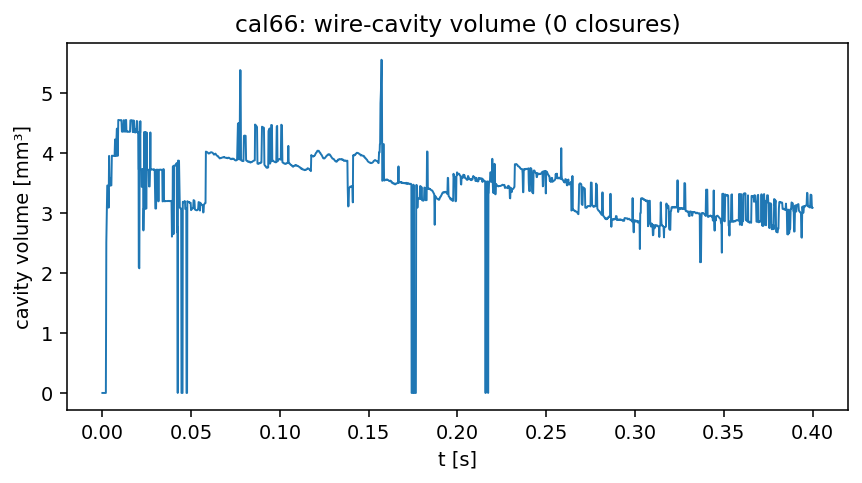
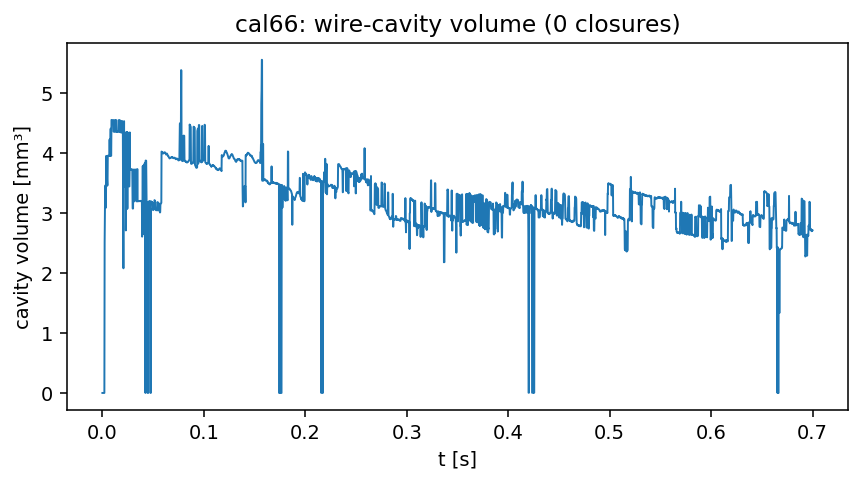
Score the full-width wake and the longer 30/100 window.
On the full mesh the wake centroid sits at y = 0, and the crest is still short at 0.30 s, so that run continues. The 30/100 window on 700 W holds a 2.06 mm trail over a 0.99 mm lead.

diff --git a/results/calibration/taosun03/README.md b/results/calibration/taosun03/README.md
@@ -69,7 +69,7 @@ The radiograph is a rounded dome about 1.5–2 mm tall, higher on the trailing s
 | cal72 | 0.50 s | 8 | 1.91 / 0.54 mm | 0.84–2.06 mm, 10/12 pinned | open, 3.52 mm³, centre y = 1.06 mm | 50+50+650 W at 2 mm/s. Lowest lead with a tall trail. Continued to 0.75 s. |
 | cal36 | 1.00 s | 8 | 2.22 / 1.15 mm | 1.15–2.37 mm, 12/13 pinned | open, 2.96 mm³, centre y = 1.15 mm | Trail held. Lead rose from 0.84 mm at 0.80 s. Not continued. |
 | cal43 | 0.80 s | 8 | 1.91 / 0.84 mm | 0.99–2.06 mm, 10/10 pinned | open, 2.62 mm³, centre y = 1.11 mm | 50+50+650 W, given time. Lead fell to 0.84 mm. Continued to 1.05 s. |
-| cal66 | 0.40 s | 8 | 1.61 / 0.99 mm | 0.99–1.76 mm, 12/12 pinned | open, 3.08 mm³, centre y = 1.08 mm | 700 W with the 30°/100° window. Fully pinned. Continued to 0.70 s. |
+| cal66 | 0.70 s | 8 | 2.06 / 0.99 mm | 0.99–2.06 mm, 10/10 pinned | open, 2.71 mm³, centre y = 1.16 mm | 700 W with 30°/100°. Lead stayed at 0.99 mm. Continued to 0.90 s. |
 | cal74 | 0.36 s | 8 | 1.61 / 0.99 mm | 0.99–1.76 mm, 10/10 pinned | open, 3.15 mm³, centre y = 1.07 mm | 0.18 mm rear spot on 700 W. Crest shorter than cal36. Not continued. |
 | cal78 | 0.36 s | 8 | 1.61 / 0.84 mm | 0.99–1.76 mm, 6/12 pinned | open, 3.20 mm³, centre y = 1.07 mm | 15°/50° window on 700 W. Lead already 0.84 mm. Continued to 0.60 s. |
 | cal62 | 0.60 s | 8 | 2.06 / 1.30 mm | 1.30–2.22 mm, 12/12 pinned | open, 3.17 mm³, centre y = 1.08 mm | 700 W at scan 2 mm/s. Fully pinned. Lead still high. Continued to 0.90 s. |
@@ -100,6 +100,7 @@ The radiograph is a rounded dome about 1.5–2 mm tall, higher on the trailing s
 | cal53 | 0.30 s | 7 | 1.61 / 1.30 mm | 0.84–1.61 mm, 8/8 pinned | open, 2.63 mm³, centre y = 1.03 mm | Feed 32 mm/s. Lead rises with the trail. Not continued. |
 | cal54 | 0.36 s | 7 | 1.61 / 1.30 mm | 1.30–1.76 mm, 11/11 pinned | open, 3.27 mm³, centre y = 1.01 mm | Scan 2.5 mm/s, feed 22 mm/s. Lead rises with the trail. Not continued. |
 | cal61 | 0.40 s | 7 | 1.61 / 1.15 mm | 1.15–1.76 mm, 4/10 pinned | open, 2.98 mm³, centre y = 1.09 mm | 700 W with the 60°/140° window. Line mostly receding. Not continued. |
+| cal82 | 0.45 s | 6 | 1.76 / 0.54 mm | 0.69–1.91 mm, 3/8 pinned | open, 3.03 mm³, centre y = 1.09 mm | 45°/120° on 50+50+650 W. Lead low, line not held. Not continued. |
 | cal68 | 0.40 s | 6 | 1.76 / 1.15 mm | 0.54–1.91 mm, 12/12 pinned | open, 2.55 mm³, centre y = 1.09 mm | Feed 32 mm/s on 700 W. Line slipped to 0.54 mm. Foot pore locked. Not continued. |
 | cal73 | 0.40 s | 6 | 1.45 / 0.69 mm | 0.69–1.76 mm, 8/10 pinned | open, 3.02 mm³, centre y = 1.06 mm | Front spots 25 W. Lead fell and the line slipped. Not continued. |
 | cal46 | 0.30 s | 6 | 1.45 / 0.99 mm | 0.69–1.61 mm, 9/9 pinned | open, 3.34 mm³, centre y = 1.01 mm | Rear aim at the foot. Line slips down. Not continued. |
@@ -107,6 +108,7 @@ The radiograph is a rounded dome about 1.5–2 mm tall, higher on the trailing s
 | cal39 | 0.28 s | 6 | 1.30 / 1.15 mm | 1.15–1.45 mm, 8/13 pinned | open, 3.17 mm³, centre y = 1.02 mm | Wide 90°/170° window. Foot pore, not a neck. Not continued. |
 | cal37 | 0.25 s | 5 | 1.30 / 1.30 mm | 0.99–1.45 mm, 12/12 pinned | open, 3.39 mm³, centre y = 0.97 mm | Steep plate window did not hold. Not continued. |
 | cal80 | 0.45 s | 7 | 1.76 / 1.45 mm | 1.30–1.91 mm, 5/7 pinned | open, 3.06 mm³, centre y = 1.03 mm | 80+80+500 W with feed 22 mm/s. Lead rose. Not continued. |
+| cal71 | 0.30 s | 7 | 1.30 / 1.15 mm | 1.15–1.61 mm, 15/20 pinned | open, 6.08 mm³, centre y = 0.00 mm | Full-width mesh. Wake is on the center plane. Crest still short. Continued to 0.55 s. |
 | cal83 | 0.40 s | 7 | 1.45 / 1.30 mm | 1.30–1.61 mm, 8/12 pinned | open, 2.71 mm³, centre y = 1.12 mm | 45°/120° on 700 W. Trail did not grow. Not continued. |
 | cal42 | 0.32 s | 5 | 1.30 / 1.30 mm | 0.84–1.45 mm, 10/10 pinned | open, 2.18 mm³, centre y = 1.06 mm | Feed 28 mm/s. Crests equal. Not continued. |
 | cal65 | 0.55 s | 5 | 1.45 / 1.15 mm | 1.15–1.91 mm, 7/13 pinned | open, 2.66 mm³, centre y = 1.13 mm | 700 W, 60°/140°, scan 2 mm/s. Trail stayed low. Not continued. |
@@ -200,3 +202,7 @@ By 1.00 s the 700 W case (cal36) still has a 2.22 mm trail, but the leading cres
 The slow-scan tall section (cal35) at 1.00 s is fully pinned from 1.45 mm to 2.22 mm, with the trail at 2.06 mm and the lead up to 1.45 mm. The 60°/140° window (cal34) at 1.00 s has the lead up to 1.45 mm as well, from 1.15 mm at 0.70 s. Neither is continued further. Putting that window on the 700 W spot at 2 mm/s (cal65) leaves the trail at 1.45 mm. The 45°/120° window on 700 W (cal83) does the same. The 5 mm/s pass (cal84) keeps a 1.76 / 0.99 mm pair and does not freeze a pore.
 
 The lowest lead with a tall trail is cal72: 50+50+650 W, scan 2 mm/s, feed 18 mm/s. At 0.50 s the trail is 1.91 mm and the lead is 0.54 mm. Ten of 12 wire cells are pinned, from 0.84 mm to 2.06 mm. The cavity is open. It is continued to 0.75 s. Comparison: `cal72_vs_radiograph.png`. cal95 is that split at scan 2.5 mm/s. cal96 keeps the 2 mm/s scan and lowers the feed to 16 mm/s. cal97 drops the rear spot to 600 W. cal98 raises the front spots to 70 W.
+
+At 0.70 s the 30°/100° window on 100+100+700 W (cal66) has a 2.06 mm trail and a 0.99 mm lead, with all 10 wire cells pinned from 0.99 mm to 2.06 mm. The lead did not climb the way cal36's did after 0.80 s. It is continued to 0.90 s. Comparison: `cal66_vs_radiograph.png`. The 45°/120° window on 50+50+650 W (cal82) also drops the lead to 0.54 mm, and the wire line follows it down to 0.69 mm with only 3 of 8 cells pinned. It is not continued.
+
+On the full-width mesh (cal71, 70 528 cells, the same 100+100+700 W) the wake centroid is at y = −0.004 mm and the volume is 6.08 mm³, about twice the half-domain cavity. At 0.30 s the trail is only 1.30 mm and the lead is 1.15 mm, with 15 of 20 wire cells pinned. The cavity is open. It is continued to 0.55 s to see whether the trail grows once the wake is allowed to sit on the center plane. Comparison: `cal71_vs_radiograph.png`.
